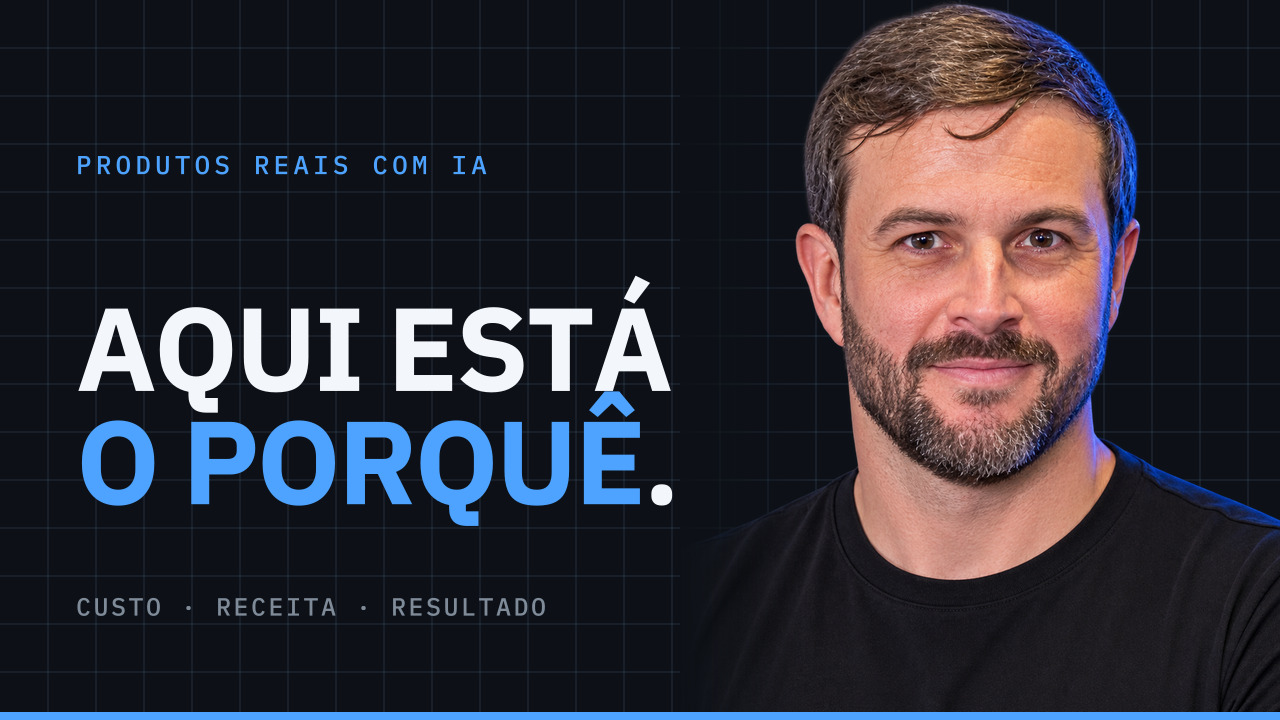
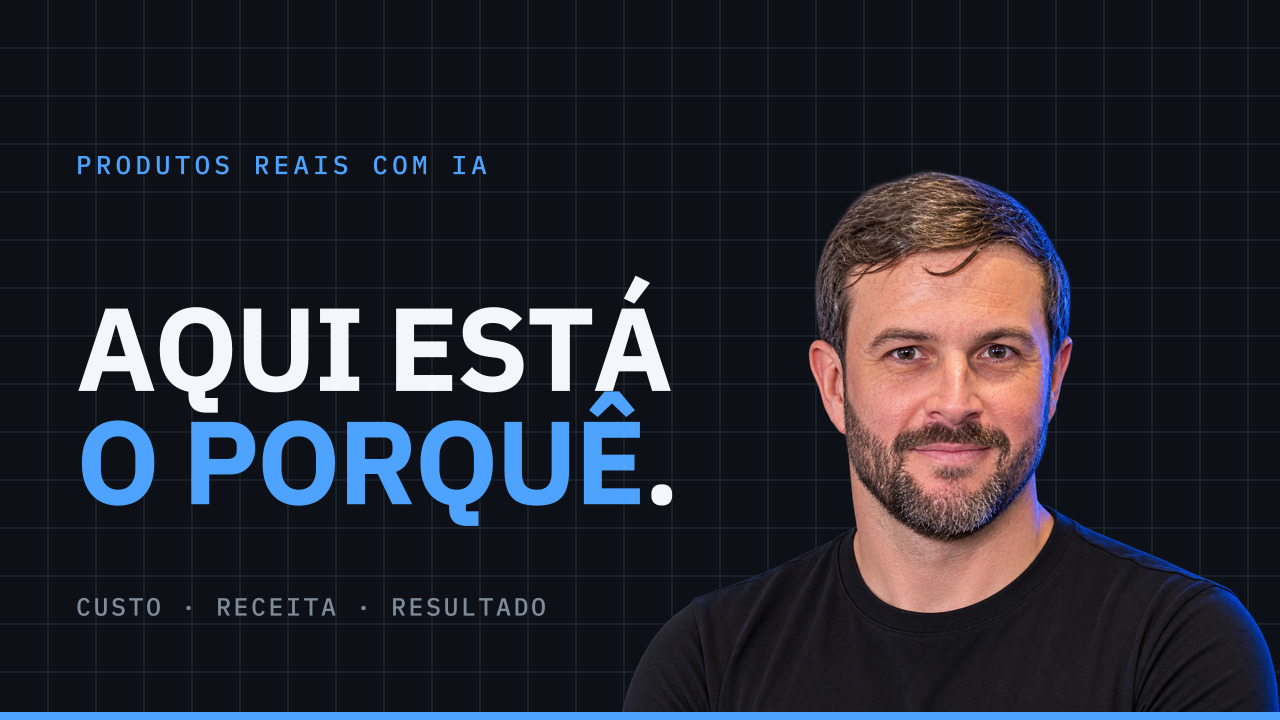
fix: correct founder thumbnail composition

diff --git a/brand/PADRAO-CAPAS.md b/brand/PADRAO-CAPAS.md
@@ -98,6 +98,9 @@ Todos superam as áreas reservadas para composições com recorte. As novas vari
 - `brand-assets/thumbnails/versions/v2-approved-founder-cutouts/` é o pack persistente de composição;
 - `brand-assets/exports/day-1/05-youtube/versions/v2-approved-founder-cutouts/` é o espelho de entrega para comparação;
 - cada arquivo deve preservar a mesma headline, grid, safe zone, barra inferior e hierarquia do Reference Pattern;
+- no pack de recortes v2, a foto é exibida completa, sem fade, sombra, escurecimento ou efeito de separação;
+- o grid permanece uniforme e visível no fundo, sem ser apagado por máscara de transição;
+- poses que apontam para a headline devem ser usadas quando houver copy à esquerda; gestos não podem ser cortados;
 - as variações são fontes aprovadas para produção, mas não alteram sozinhas qual composição está publicada em `day-1/05-youtube/`.
 
 **Procedência.** A troca de terno azul por camiseta preta não é resultado de recorte, então houve geração ou edição de conteúdo na produção desses arquivos. A ressalva da [[DECISAO-010]] sobre retrato sintético e a pendência aberta da [[DECISAO-011]] continuam valendo e foram levantadas com o fundador antes do uso. A decisão de seguir é dele, com autoridade registrada em `brand/BRAND_FOUNDATION.md`.

diff --git a/brand-assets/exports/day-1/05-youtube/versions/v2-approved-founder-cutouts/README.md b/brand-assets/exports/day-1/05-youtube/versions/v2-approved-founder-cutouts/README.md
@@ -10,15 +10,16 @@ Este pack não substitui os exports publicados em `day-1/05-youtube/` nem sobres
 | --- | --- | --- |
 | Primeiro vídeo | `leo-ferraz-cutout-front.png` | `first-video/front/` |
 | Primeiro vídeo | `leo-ferraz-cutout-smile-three-quarter.png` | `first-video/smile-three-quarter/` |
-| Primeiro vídeo | `leo-ferraz-cutout-present-right.png` | `first-video/present-right/` |
+| Primeiro vídeo | `leo-ferraz-cutout-present-left.png` | `first-video/present-left/` |
 | Live Dia 1 | `leo-ferraz-cutout-arms-crossed.png` | `live-day-1/arms-crossed/` |
 | Live Dia 1 | `leo-ferraz-cutout-neutral.png` | `live-day-1/neutral/` |
-| Live Dia 1 | `leo-ferraz-cutout-present-left.png` | `live-day-1/present-left/` |
+| Live Dia 1 | `leo-ferraz-cutout-smile-three-quarter.png` | `live-day-1/smile-three-quarter/` |
 
 ## Regras preservadas
 
-- `#0D1117` e grid estrutural de 48px;
+- `#0D1117` e grid estrutural de 48px, sem redução de opacidade;
 - headline à esquerda, retrato ampliado à direita;
 - headline, copy, safe zone e barra inferior do Reference Pattern;
 - IBM Plex Sans para headline e IBM Plex Mono para kicker/subline;
+- foto completa, sem fade, sombra, escurecimento ou recorte de gesto;
 - sem logo redesenhada, sem texto estratégico novo e sem alteração do padrão publicado.

diff --git a/brand-assets/thumbnails/versions/v2-approved-founder-cutouts/README.md b/brand-assets/thumbnails/versions/v2-approved-founder-cutouts/README.md
@@ -10,15 +10,16 @@ Este pack não substitui os exports publicados em `day-1/05-youtube/` nem sobres
 | --- | --- | --- |
 | Primeiro vídeo | `leo-ferraz-cutout-front.png` | `first-video/front/` |
 | Primeiro vídeo | `leo-ferraz-cutout-smile-three-quarter.png` | `first-video/smile-three-quarter/` |
-| Primeiro vídeo | `leo-ferraz-cutout-present-right.png` | `first-video/present-right/` |
+| Primeiro vídeo | `leo-ferraz-cutout-present-left.png` | `first-video/present-left/` |
 | Live Dia 1 | `leo-ferraz-cutout-arms-crossed.png` | `live-day-1/arms-crossed/` |
 | Live Dia 1 | `leo-ferraz-cutout-neutral.png` | `live-day-1/neutral/` |
-| Live Dia 1 | `leo-ferraz-cutout-present-left.png` | `live-day-1/present-left/` |
+| Live Dia 1 | `leo-ferraz-cutout-smile-three-quarter.png` | `live-day-1/smile-three-quarter/` |
 
 ## Regras preservadas
 
-- `#0D1117` e grid estrutural de 48px;
+- `#0D1117` e grid estrutural de 48px, sem redução de opacidade;
 - headline à esquerda, retrato ampliado à direita;
 - headline, copy, safe zone e barra inferior do Reference Pattern;
 - IBM Plex Sans para headline e IBM Plex Mono para kicker/subline;
+- foto completa, sem fade, sombra, escurecimento ou recorte de gesto;
 - sem logo redesenhada, sem texto estratégico novo e sem alteração do padrão publicado.
